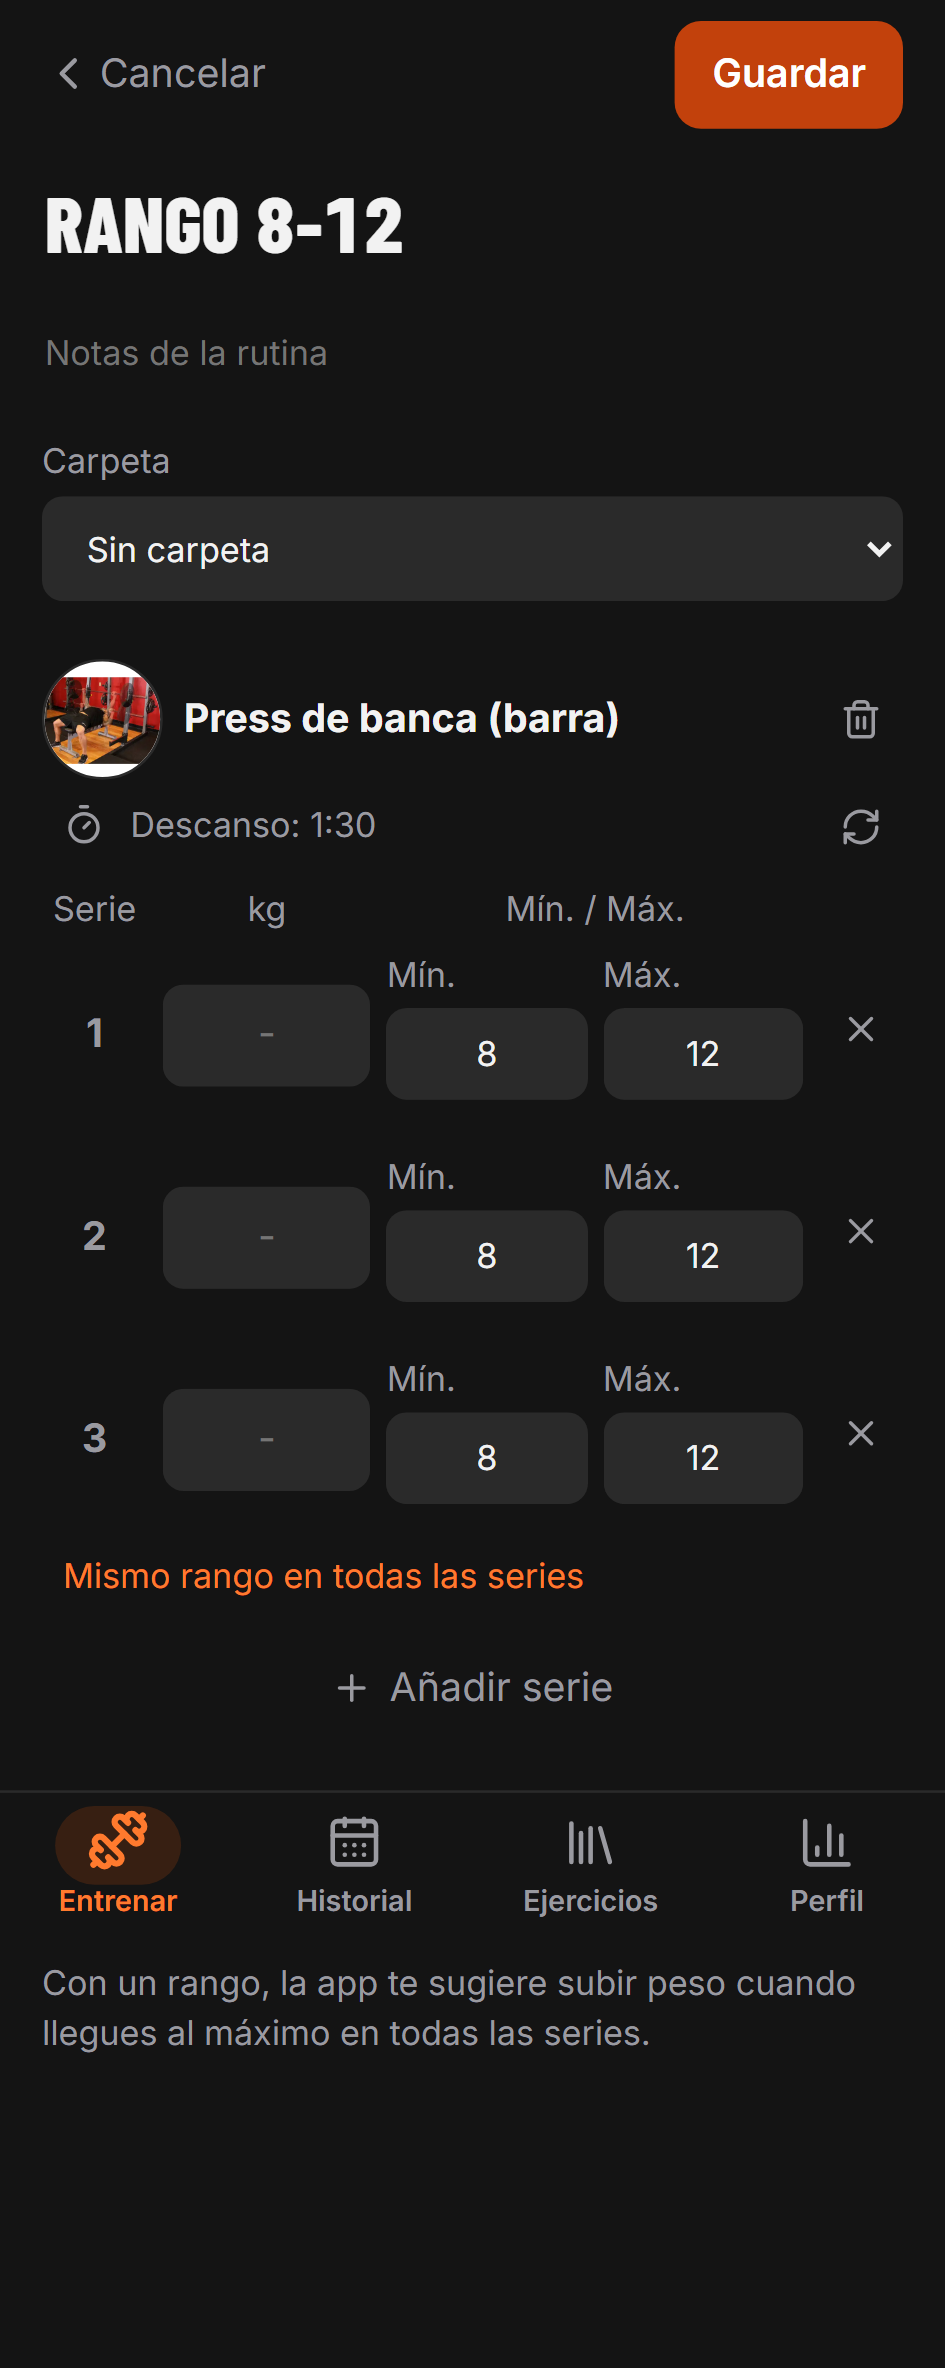
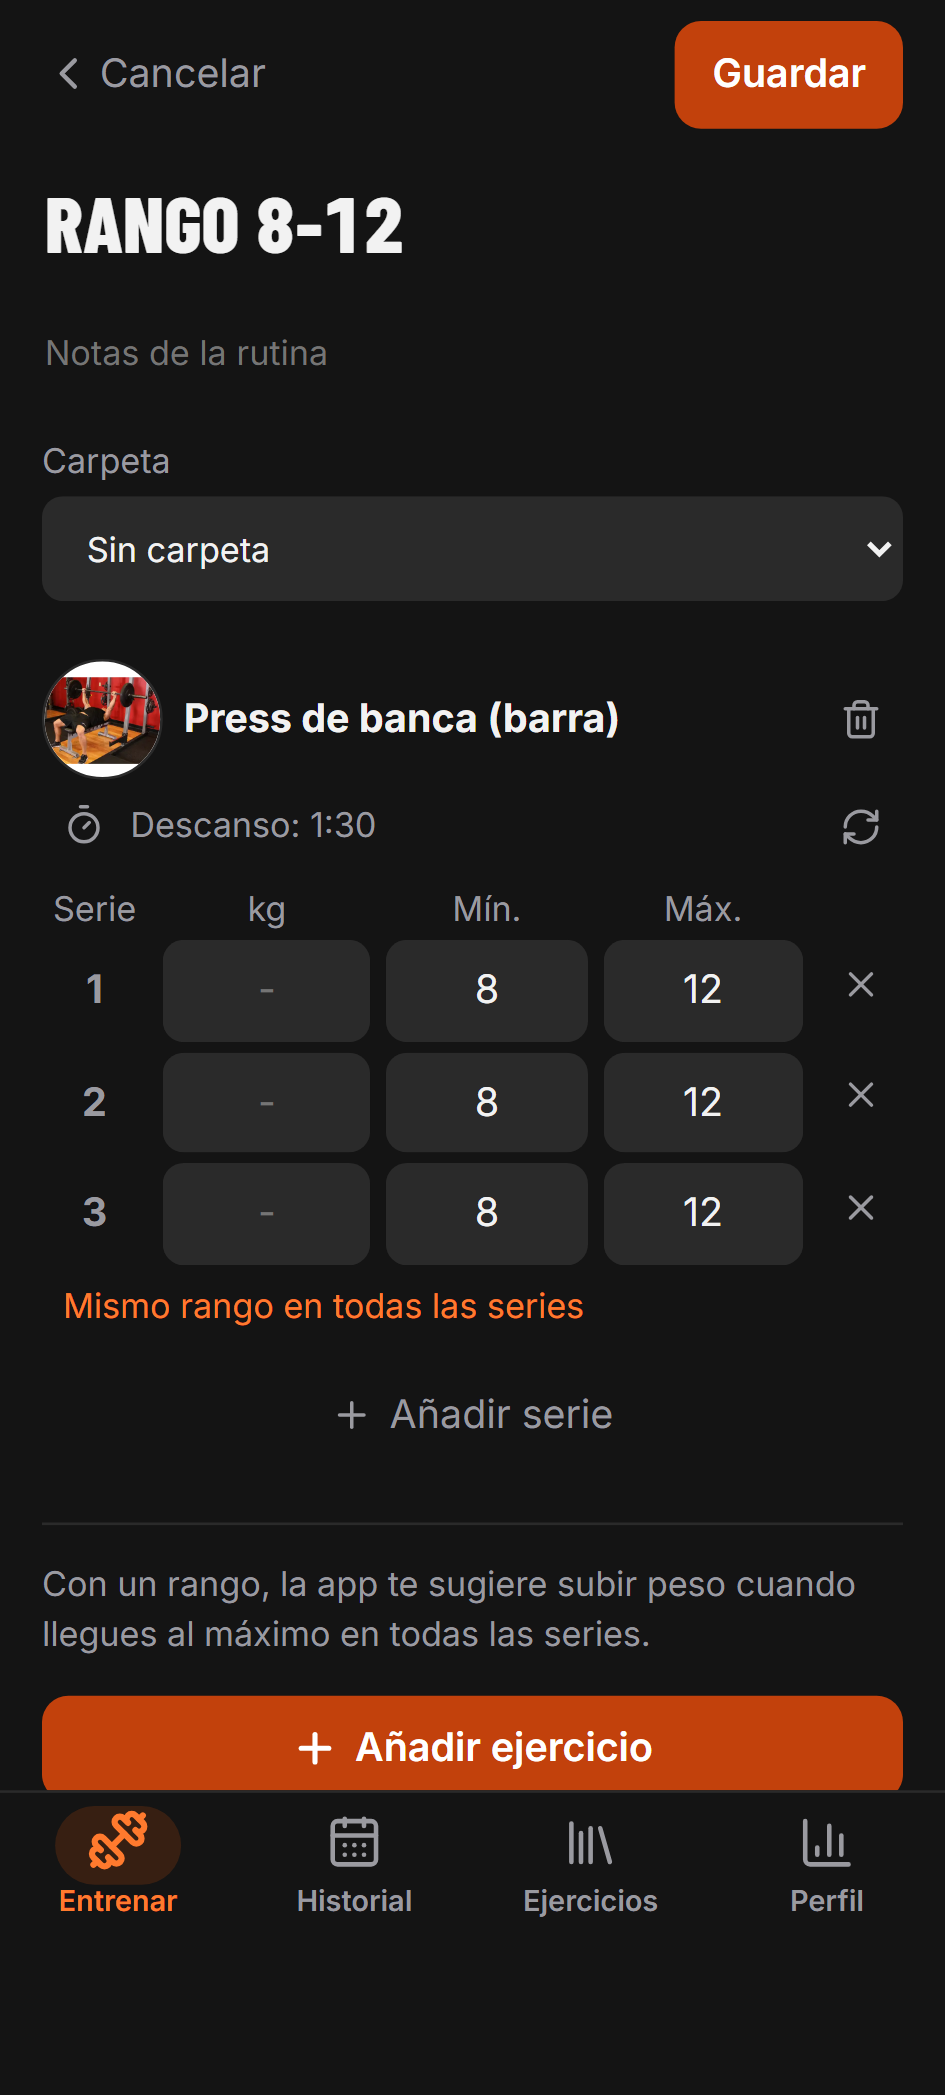
Compacta las filas de rangos y recoloca la ayuda del editor

diff --git a/app/src/components/RoutineEditor.tsx b/app/src/components/RoutineEditor.tsx
@@ -245,7 +245,14 @@ export default function RoutineEditor({ initial, onClose }: { initial: Routine; 
                   <div className="rset head small muted">
                     <span>Serie</span>
                     <span>{dur ? '' : weightUnit()}</span>
-                    <span>{dur ? 'Seg' : hasReps ? 'Mín. / Máx.' : 'Reps'}</span>
+                    {hasReps ? (
+                      <span className="rx-range">
+                        <span>Mín.</span>
+                        <span>Máx.</span>
+                      </span>
+                    ) : (
+                      <span>{dur ? 'Seg' : 'Reps'}</span>
+                    )}
                     <span />
                   </div>
                   {e.sets.map((s, si) => (
@@ -258,30 +265,24 @@ export default function RoutineEditor({ initial, onClose }: { initial: Routine; 
                         <NumberField decimals={false} aria-label="Segundos" value={s.durationSec} onChange={(v) => edit((n) => void (n.exercises[i].sets[si].durationSec = v))} />
                       ) : hasReps ? (
                         <div className="rx-range">
-                          <label>
-                            Mín.
-                            <NumberField
-                              decimals={false}
-                              aria-label={`Repeticiones mínimas, serie ${si + 1}`}
-                              aria-invalid={!!repRangeError(s)}
-                              aria-describedby={`${errorId}-${i}-${si}`}
-                              value={s.repsMin}
-                              placeholder="-"
-                              onChange={(v) => edit((n) => void (n.exercises[i].sets[si].repsMin = v))}
-                            />
-                          </label>
-                          <label>
-                            Máx.
-                            <NumberField
-                              decimals={false}
-                              aria-label={`Repeticiones máximas, serie ${si + 1}`}
-                              aria-invalid={!!repRangeError(s)}
-                              aria-describedby={`${errorId}-${i}-${si}`}
-                              value={s.reps}
-                              placeholder="-"
-                              onChange={(v) => edit((n) => void (n.exercises[i].sets[si].reps = v))}
-                            />
-                          </label>
+                          <NumberField
+                            decimals={false}
+                            aria-label={`Repeticiones mínimas, serie ${si + 1}`}
+                            aria-invalid={!!repRangeError(s)}
+                            aria-describedby={`${errorId}-${i}-${si}`}
+                            value={s.repsMin}
+                            placeholder="-"
+                            onChange={(v) => edit((n) => void (n.exercises[i].sets[si].repsMin = v))}
+                          />
+                          <NumberField
+                            decimals={false}
+                            aria-label={`Repeticiones máximas, serie ${si + 1}`}
+                            aria-invalid={!!repRangeError(s)}
+                            aria-describedby={`${errorId}-${i}-${si}`}
+                            value={s.reps}
+                            placeholder="-"
+                            onChange={(v) => edit((n) => void (n.exercises[i].sets[si].reps = v))}
+                          />
                           <span id={`${errorId}-${i}-${si}`} className="small error" aria-live="polite">
                             {repRangeError(s)}
                           </span>
@@ -319,6 +320,9 @@ export default function RoutineEditor({ initial, onClose }: { initial: Routine; 
           );
         })}
       </div>
+      {r.exercises.some((e) => ['weight_reps', 'reps', 'assisted'].includes(ex.get(e.exerciseId)?.kind ?? 'weight_reps')) && (
+        <p className="small muted">Con un rango, la app te sugiere subir peso cuando llegues al máximo en todas las series.</p>
+      )}
       <button className="primary full icon-btn" onClick={() => setPicker({})}>
         <Plus size={18} strokeWidth={2.6} /> Añadir ejercicio
       </button>
@@ -347,9 +351,6 @@ export default function RoutineEditor({ initial, onClose }: { initial: Routine; 
         </Sheet>
       )}
       {info && <ExerciseInfo id={info} onClose={() => setInfo(null)} />}
-      {r.exercises.some((e) => ['weight_reps', 'reps', 'assisted'].includes(ex.get(e.exerciseId)?.kind ?? 'weight_reps')) && (
-        <p className="small muted">Con un rango, la app te sugiere subir peso cuando llegues al máximo en todas las series.</p>
-      )}
       {picker && (
         <ExercisePicker
           single={picker.replace !== undefined}

diff --git a/e2e/rep-range.spec.ts b/e2e/rep-range.spec.ts
@@ -28,6 +28,21 @@ for (const scheme of ['light', 'dark'] as const) {
     await expect(page.getByLabel('Repeticiones mínimas, serie 3', { exact: true })).toHaveValue('8');
     await expect(page.getByLabel('Repeticiones máximas, serie 3', { exact: true })).toHaveValue('12');
     await expect(min).toHaveAttribute('aria-invalid', 'false');
+    const help = page.getByText('Con un rango, la app te sugiere subir peso cuando llegues al máximo en todas las series.', { exact: true });
+    await expect(help).toHaveCount(1);
+    expect(await help.evaluate((el) => el.previousElementSibling?.classList.contains('rx-list'))).toBe(true);
+    expect(await help.evaluate((el) => el.nextElementSibling?.textContent?.includes('Añadir ejercicio'))).toBe(true);
+    const row = page.locator('.rset:not(.head)').first();
+    await expect(row.locator('label')).toHaveCount(0);
+    expect(await row.locator('.error').evaluate((el) => el.getBoundingClientRect().height)).toBe(0);
+    const headers = page.locator('.rset.head .rx-range > span');
+    await expect(headers).toHaveText(['Mín.', 'Máx.']);
+    for (const [index, field] of [min, max].entries()) {
+      const headerBox = await headers.nth(index).boundingBox();
+      const fieldBox = await field.boundingBox();
+      expect(Math.abs(headerBox!.x - fieldBox!.x)).toBeLessThan(1);
+      expect(Math.abs(headerBox!.width - fieldBox!.width)).toBeLessThan(1);
+    }
     expect(await page.evaluate(() => document.documentElement.scrollWidth <= innerWidth)).toBe(true);
     expect((await new AxeBuilder({ page }).withTags(['wcag2a', 'wcag2aa', 'wcag21aa']).analyze()).violations).toEqual([]);
     await page.screenshot({ path: `docs/issue-119/editor-${scheme}.png`, fullPage: true });

diff --git a/shared/changelog.ts b/shared/changelog.ts
@@ -10,7 +10,6 @@ export const CHANGELOG: Release[] = [
     version: '1.16.0',
     date: '2026-11-08',
     items: [
-      'Edita rangos de repeticiones por serie en tus rutinas y copia el rango al resto de series.',
       'Lee noticias de ciencia y entrenamiento desde Entrenar, filtra por fuente y tema y conserva la última actualización para consultar sin conexión.',
       'Las sugerencias respetan los rangos de repeticiones: sube peso al completar el máximo en todas las series y vuelve al mínimo.',
     ],

diff --git a/app/src/components/RoutineEditor.css b/app/src/components/RoutineEditor.css
@@ -39,9 +39,10 @@
   gap: 6px;
   min-width: 0;
 }
-.rx-range label {
-  min-width: 0;
-}
 .rx-range .error {
   grid-column: 1 / -1;
+}
+
+.rx-range .error:empty {
+  display: none;
 }
